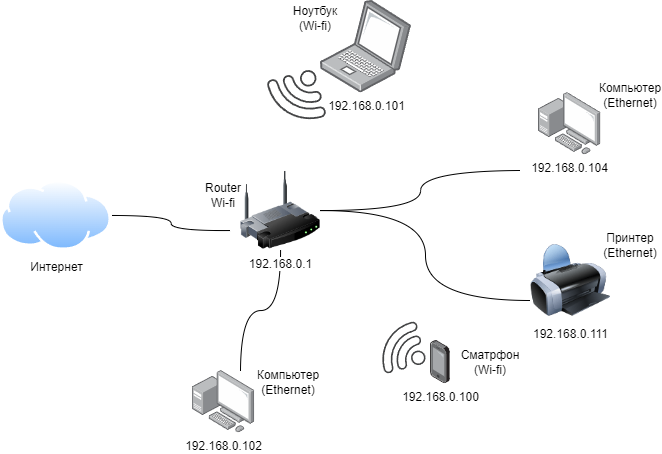
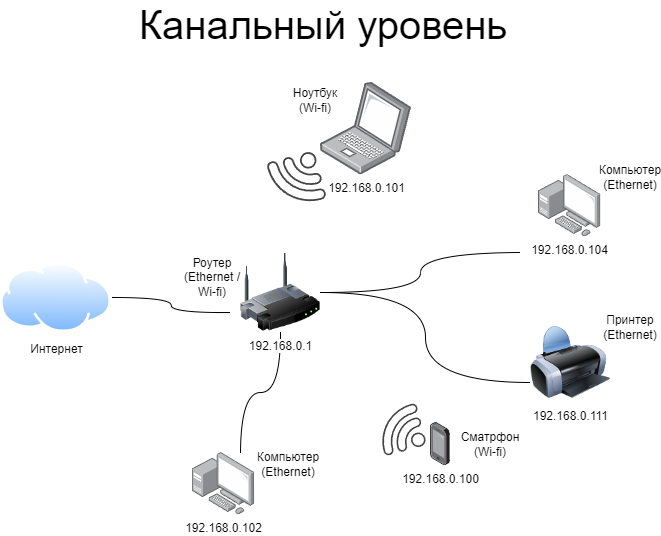
Внес изменения в рисунки, обновил стили

diff --git a/docs/docs/stylesheets/extra.css b/docs/docs/stylesheets/extra.css
@@ -1,5 +1,17 @@
 /* Кастомные стили */
 
+[data-md-color-scheme="default"] {
+  --md-primary-fg-color: #04859D; /*Основной цвет*/
+  --md-accent-fg-color: #37B6CE; /*Акцентный цвет*/
+  --md-typeset-a-color: #015666; /*Цвет ссылок*/
+  --md-default-bg-color: #f0f8ff; /*Фоновый цвет*/
+  --md-footer-bg-color: #04859D; /* Цвет футтера */
+  --md-default-fg-color: #353535; /*Основной цвет текста (абзацы, списки, подзаголовки, nav и toc)*/
+  --md-code-bg-color: #ffffff; /*Цвет фона блока кода*/
+  --md-code-fg-color: #5c5b5b; /*Цвет текста в блоке кода*/
+  --md-default-fg-color--light: #4e4d4d; /*Цвет h1 и заголовков блоков toc и nav*/
+}
+
 /* Увеличение ширины контента */
 .md-grid {
   max-width: 1440px;
@@ -24,18 +36,17 @@
   display: table;
 }
 
-/* Улучшение типографики */
+/*Параметры текста статей*/
 .md-typeset {
-  font-size: 0.8rem;
-  line-height: 1.6;
+    font-family: 'Tahoma', 'arial';
+    font-weight: 200;
+    font-size: 16px;
+    color: #4b5563;
 }
-
-.md-typeset h1 {
-  font-weight: 600;
-  color: var(--md-primary-fg-color);
-}
-
-.md-typeset h2 {
-  border-bottom: 1px solid var(--md-default-fg-color--lightest);
-  padding-bottom: 0.5rem;
+/*Параметры текста nav и toc*/
+.md-nav {
+    font-family: 'Tahoma', 'arial';
+    font-weight: 400;
+    font-size: 16px;
+    color: #4b5563;
 }

diff --git a/docs/docs/regulatory/draftFL/index.md b/docs/docs/regulatory/draftFL/index.md
@@ -10,13 +10,13 @@
 
     Статус: определяет общие требования к ведомственным актам (приказам, инструкциям), фиксируя универсальные принципы нормотворчества: проведение экспертиз, процедуры согласования и регистрацию в Минюсте.
 
-Итог: разработка федеральных законов и постановлений Правительства — строго регламентированный процесс, основанный на правовой иерархии (от Конституции до регламентов) и единых стандартах юридической техники.
+Разработка федеральных законов и постановлений Правительства — строго регламентированный процесс, основанный на правовой иерархии (от Конституции до регламентов) и единых стандартах юридической техники.
 
 ## Схема разработки проектов Федеральных законов
 
 ![Схема разработки проектов Федеральных законов](./image/schemaDraftFL.png)
 /// caption
- 
+ Процесс разработки проектов Федеральных законов
 ///
 
 ### Схема составлена на основе следующих нормативных правовых актов

diff --git a/docs/docs/part-tech/osi/index.md b/docs/docs/part-tech/osi/index.md
@@ -136,4 +136,3 @@
 /// caption
   Схема взаимодействия каждого уровня
 ///
-
